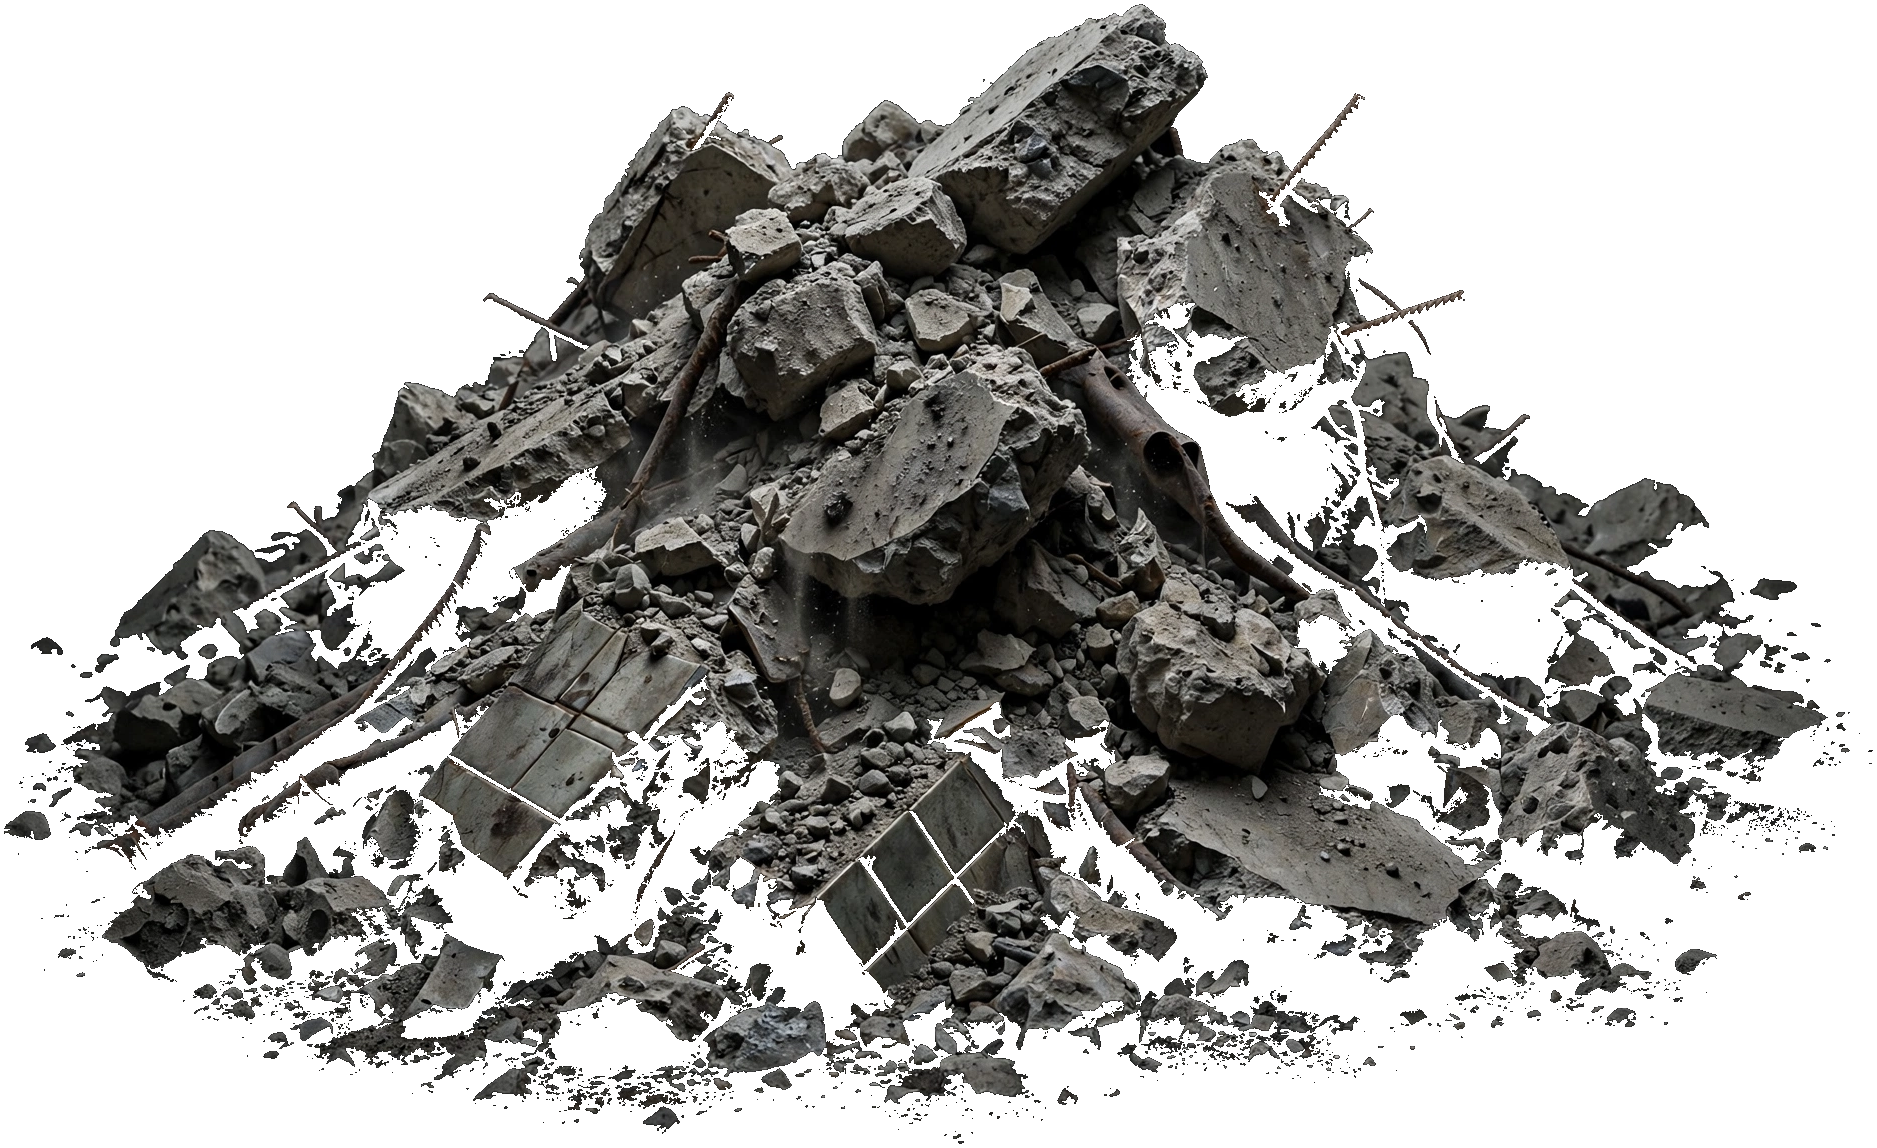
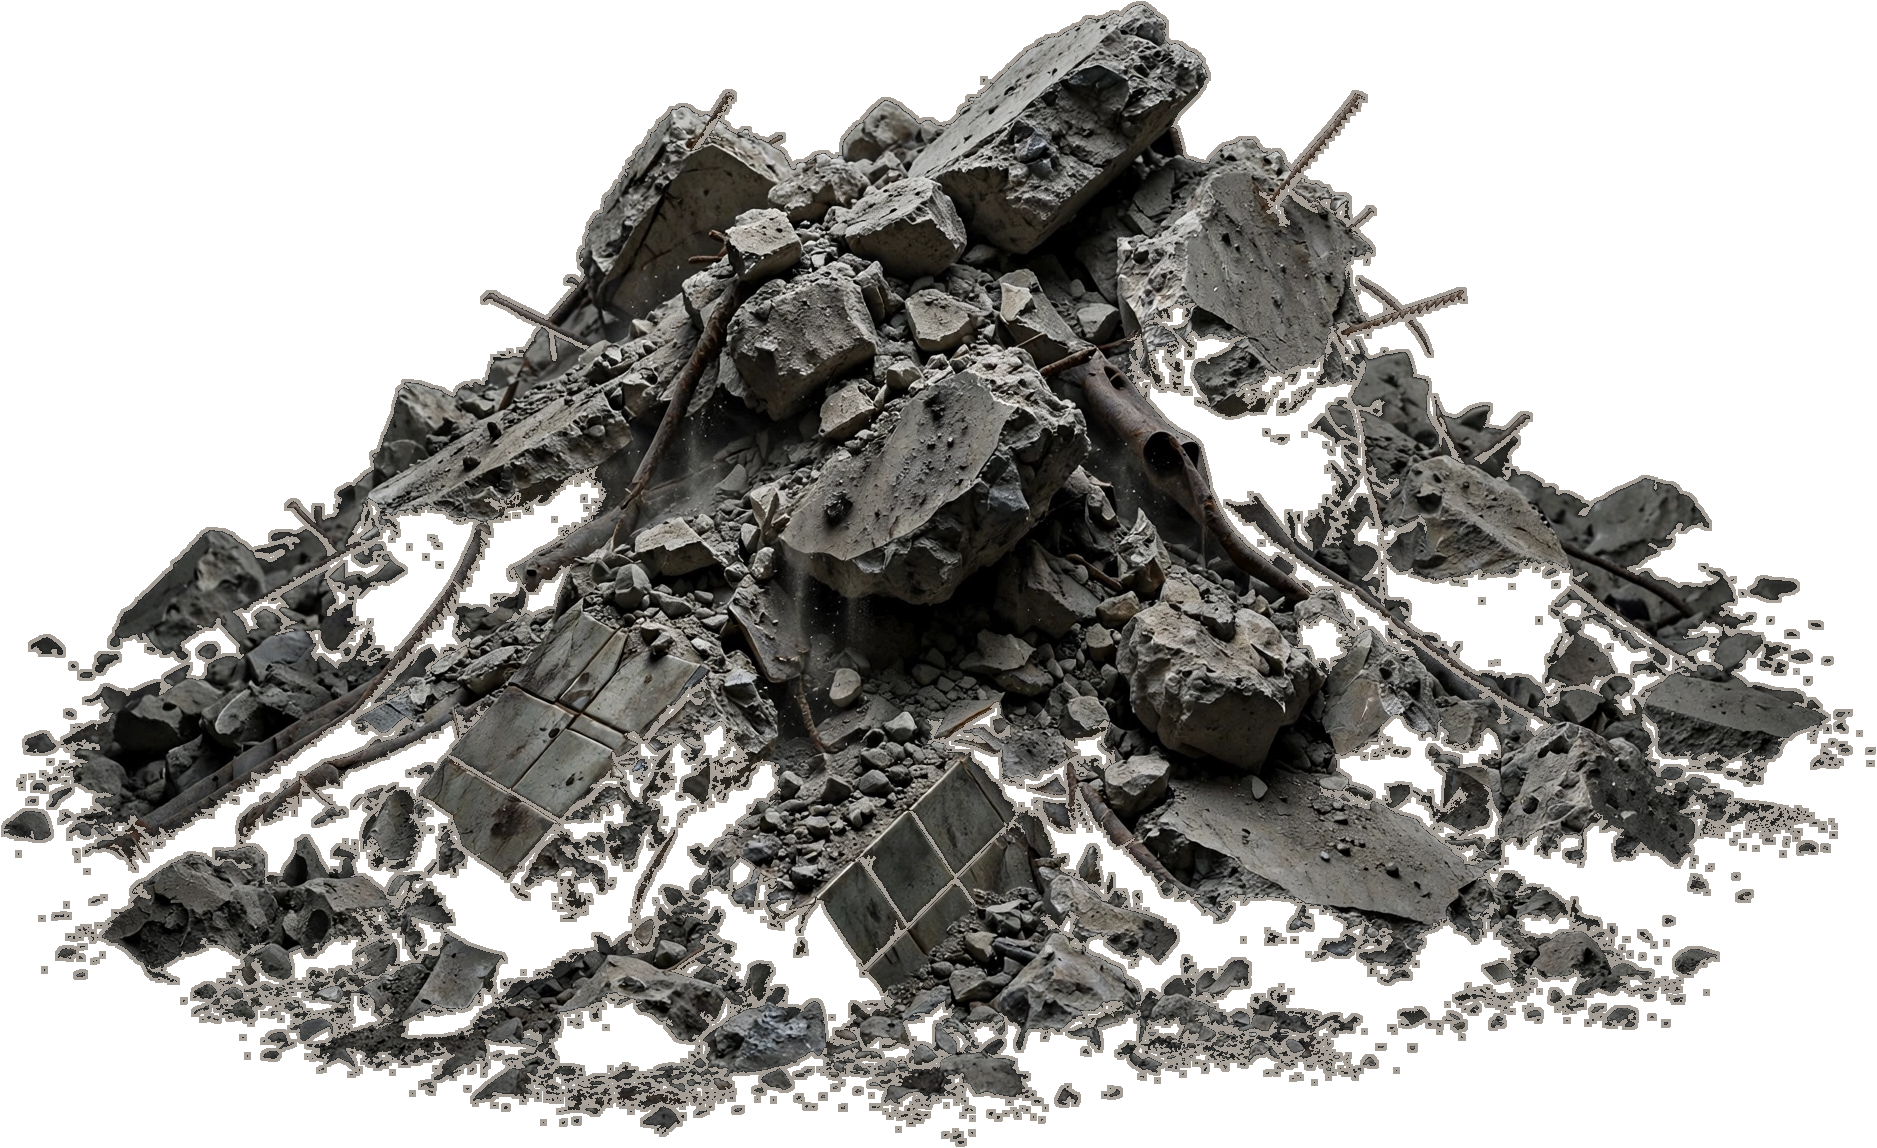
prototype v0.9.1: elite+boss walk animations, evo rebalance (Lv1 start, re-obtainable materials), prop/rock outlines, size tweaks

diff --git a/game.js b/game.js
@@ -31,7 +31,7 @@ function loadSprite(key, src) {
   img.onerror = () => { sprLoaded++; };
   img.src = src; SPR[key] = img;
 }
-const ASSET_V = 'v=0.9.0';
+const ASSET_V = 'v=0.9.1';
 loadSprite('tobi', 'assets/tobi-battle.png?' + ASSET_V);
 loadSprite('lumi', 'assets/lumi-battle.png?' + ASSET_V);
 // 캐릭터 걷기 애니메이션 프레임 (6프레임)
@@ -64,7 +64,7 @@ const ENEMY_ANIM = {
   paper: [[0, 0.975], [1, 1.035], [2, 0.965], [3, 0.985], [4, 1.04], [5, 1.01]],
   pack: [[0, 0.944], [1, 0.975], [2, 0.96], [3, 0.995], [4, 0.985], [5, 1.07]],
 };
-const ENEMY_ANIM_H = { ticket: 48, glove: 46, umb: 56, can: 46, paper: 52, pack: 58 };
+const ENEMY_ANIM_H = { ticket: 31, glove: 30, umb: 36, can: 30, paper: 34, pack: 38 };
 loadSprite('bg-floor', 'assets/bg-floor.png?' + ASSET_V);
 loadSprite('bg-rock', 'assets/bg-rock.png?' + ASSET_V);
 loadSprite('prop-trashcan', 'assets/prop-trashcan.png?' + ASSET_V);
@@ -169,16 +169,16 @@ const WEAPONS = {
   star:     { name: '별똥별',    icon: '🌠', max: 5, desc: '가장 가까운 적 추적' },
   clockbomb:{ name: '시계탑 폭발', icon: '💥', max: 5, desc: '주기적 광역 폭발+슬로우' },
   // ---- 진화 무기 (레벨업 진화로만 획득, max 1) ----
-  clawstorm:   { name: '폭풍 할퀴기', icon: '🌪', max: 1, evo: true, desc: '3연속 베기, 범위 대폭 증가' },
-  steelfoot:   { name: '강철 발톱',  icon: '🦾', max: 1, evo: true, desc: '3연속 베기 + 적중 시 짧은 기절' },
-  eternalclock:{ name: '영원의 시계', icon: '⏳', max: 1, evo: true, desc: '나갔다 돌아오는 왕복 파동' },
-  homerun:     { name: '홈런볼',     icon: '⚾', max: 1, evo: true, ball: true, desc: '초고속 관통 강속구' },
-  lightningfetch:{ name: '번개 페치', icon: '⚡', max: 1, evo: true, ball: true, desc: '초고속 왕복 + 궤적에 번개 피해' },
-  satbone:     { name: '위성 뼈다귀', icon: '🛰', max: 1, evo: true, desc: '3개의 뼈다귀, 넓은 궤도' },
-  meteorshower:{ name: '유성우',     icon: '☄', max: 1, evo: true, desc: '추적탄 9연발 동시 발사' },
-  guardbell:   { name: '수호의 종',  icon: '🔔', max: 1, evo: true, desc: '광역 폭발 + 방어 필드 생성' },
-  infinityrally:{ name: '무한 랠리', icon: '🔁', max: 1, evo: true, ball: true, desc: '튈수록 강해지고 반드시 돌아옴' },
-  doomsday:    { name: '종말의 시계', icon: '⏰', max: 1, evo: true, desc: '파동 적중 시 폭발, 연쇄 반응' },
+  clawstorm:   { name: '폭풍 할퀴기', icon: '🌪', max: 5, evo: true, desc: '3연속 베기, 범위 대폭 증가' },
+  steelfoot:   { name: '강철 발톱',  icon: '🦾', max: 5, evo: true, desc: '3연속 베기 + 적중 시 짧은 기절' },
+  eternalclock:{ name: '영원의 시계', icon: '⏳', max: 5, evo: true, desc: '나갔다 돌아오는 왕복 파동' },
+  homerun:     { name: '홈런볼',     icon: '⚾', max: 5, evo: true, ball: true, desc: '초고속 관통 강속구' },
+  lightningfetch:{ name: '번개 페치', icon: '⚡', max: 5, evo: true, ball: true, desc: '초고속 왕복 + 궤적에 번개 피해' },
+  satbone:     { name: '위성 뼈다귀', icon: '🛰', max: 5, evo: true, desc: '3개의 뼈다귀, 넓은 궤도' },
+  meteorshower:{ name: '유성우',     icon: '☄', max: 5, evo: true, desc: '추적탄 9연발 동시 발사' },
+  guardbell:   { name: '수호의 종',  icon: '🔔', max: 5, evo: true, desc: '광역 폭발 + 방어 필드 생성' },
+  infinityrally:{ name: '무한 랠리', icon: '🔁', max: 5, evo: true, ball: true, desc: '튈수록 강해지고 반드시 돌아옴' },
+  doomsday:    { name: '종말의 시계', icon: '⏰', max: 5, evo: true, desc: '파동 적중 시 폭발, 연쇄 반응' },
 };
 const EVOS = {
   clawstorm:    { needs: { weapon: 'claw', passive: 'meat' } },
@@ -233,6 +233,7 @@ function newGame(charId) {
       x: 0, y: 0, hp: c.hp, maxHp: c.hp, speed: c.speed,
       lvl: 1, xp: 0, xpNeed: xpFor(1), r: 22,
       weapons: [{ id: c.weapon, lvl: 1, t: 0, ang: 0 }],
+      consumed: [], // 진화에 소모된 무기 (다시 획득 가능)
       passives: {}, keepsakes: {}, scarfCd: 0, face: 1, invuln: 0, atkAng: 0,
       rewindUsed: false, snaps: [], snapT: 0, moving: false,
     },
@@ -704,10 +705,17 @@ function setBanner(txt) { G.banner = { txt, t: 0 }; }
 
 // ============ Elite & Boss ============
 const ELITE_DEFS = {
-  ticket: { hp: 900, name: '티켓 검사관', spr: 'enemy-elite-inspector', dims: [110, 110], r: 28 },
-  glove: { hp: 2200, name: '잃어버린 수하물', spr: 'enemy-elite-luggage', dims: [120, 120], r: 32 },
-  umb: { hp: 3800, name: '고장난 안내방송', spr: 'enemy-elite-announce', dims: [116, 110], r: 30 },
+  ticket: { hp: 900, name: '티켓 검사관', spr: 'enemy-elite-inspector', dims: [110, 110], r: 28,
+    walk: [['elite-ticket-0', 1.031], ['elite-ticket-1', 0.995], ['elite-ticket-2', 1.031], ['elite-ticket-3', 0.995], ['elite-ticket-4', 1.026], ['elite-ticket-5', 1.046]] },
+  glove: { hp: 2200, name: '잃어버린 수하물', spr: 'enemy-elite-luggage', dims: [120, 120], r: 32,
+    walk: [['elite-glove-0', 0.975], ['elite-glove-1', 0.96], ['elite-glove-2', 1.005], ['elite-glove-3', 0.995], ['elite-glove-4', 0.995], ['elite-glove-5', 1.042]] },
+  umb: { hp: 3800, name: '고장난 안내방송', spr: 'enemy-elite-announce', dims: [116, 110], r: 30,
+    walk: [['elite-umb-0', 0.936], ['elite-umb-1', 0.936], ['elite-umb-2', 0.926], ['elite-umb-3', 0.975], ['elite-umb-4', 0.985], ['elite-umb-5', 0.995]] },
 };
+for (const t of ['ticket', 'glove', 'umb'])
+  for (let i = 0; i < 6; i++) loadSprite(`elite-${t}-${i}`, `assets/elite-${t}-${i}.png?` + ASSET_V);
+for (let i = 0; i < 6; i++) loadSprite('boss-walk-' + i, `assets/boss-walk-${i}.png?` + ASSET_V);
+const BOSS_WALK = [['boss-walk-0', 1.091], ['boss-walk-1', 1.053], ['boss-walk-2', 1.031], ['boss-walk-3', 1.089], ['boss-walk-4', 1.036], ['boss-walk-5', 0.995]];
 function spawnMinion(type, x, y) {
   if (G.enemies.length > 90) return;
   const base = ENEMY_TYPES[type], t = G.time;
@@ -987,8 +995,15 @@ function drawEnemy(e) {
   if (e.frozen > 0) ctx.globalAlpha = 0.7;
   if (e.elite) {
     const def = ELITE_DEFS[e.type], ed = def.dims;
-    const espr = sprFor(def.spr, ed[0], ed[1]);
-    if (espr) ctx.drawImage(espr, -ed[0] / 2, -ed[1] / 2, ed[0], ed[1]);
+    // 엘리트 걷기 애니메이션 (6프레임, 6fps)
+    const [wkey, wasp] = def.walk[Math.floor(G.time * 6 + e.seed) % 6];
+    const ww = Math.round(ed[1] * wasp);
+    const espr = sprFor(wkey, ww, ed[1]);
+    if (espr) ctx.drawImage(espr, -ww / 2, -ed[1] / 2, ww, ed[1]);
+    else {
+      const fspr = sprFor(def.spr, ed[0], ed[1]);
+      if (fspr) ctx.drawImage(fspr, -ed[0] / 2, -ed[1] / 2, ed[0], ed[1]);
+    }
   } else {
     // 걷기 애니메이션 (6프레임, 8fps)
     const anim = ENEMY_ANIM[e.type], h = ENEMY_ANIM_H[e.type] || 52;
@@ -1048,10 +1063,16 @@ function drawBoss(e) {
   ctx.rotate(ang);
   const pulse = e.phase === 2 ? Math.sin(G.time * 10) * 0.015 : Math.sin(G.time * 4) * 0.008;
   ctx.scale(1 + pulse, 1 + pulse);
-  const BW = 224, BH = 216; // 시트 기본형 스프라이트
+  const BW = 224, BH = 216; // 보스 걷기 애니메이션 (6프레임, 6fps)
   if (flash) ctx.globalAlpha = 0.72;
-  const bspr = sprFor('enemy-boss-train', BW, BH);
-  if (bspr) ctx.drawImage(bspr, -BW / 2, -BH / 2 + 10, BW, BH);
+  const [bkey, basp] = BOSS_WALK[Math.floor(G.time * 6) % 6];
+  const bw2 = Math.round(BH * basp);
+  const bspr = sprFor(bkey, bw2, BH);
+  if (bspr) ctx.drawImage(bspr, -bw2 / 2, -BH / 2 + 10, bw2, BH);
+  else {
+    const ospr = sprFor('enemy-boss-train', BW, BH);
+    if (ospr) ctx.drawImage(ospr, -BW / 2, -BH / 2 + 10, BW, BH);
+  }
   // Phase 2 붉은 기운
   if (e.phase === 2) {
     ctx.globalAlpha = 0.12 + 0.07 * Math.sin(G.time * 10);
@@ -1233,7 +1254,7 @@ function drawPlayer() {
   const anim = CHAR_ANIM[G.char];
   let sprKey = G.char, sw = 76, sh = 76;
   if (anim) {
-    sh = 88;
+    sh = 72;
     const f = p.moving ? Math.floor(G.time * 10) % 6 : 2;
     let asp;
     [sprKey, asp] = anim.walk[f];
@@ -1531,6 +1552,10 @@ function openLevelUp() {
     const l = p.passives[id] || 0;
     if (l < PASSIVES[id].max && (l > 0 || pCount < MAX_PASSIVES)) pool.push({ t: 'passive', id });
   }
+  // 진화에 소모된 무기는 슬롯이 가득 차도 다시 획득 가능
+  for (const id of (p.consumed || [])) {
+    if (!p.weapons.find(w => w.id === id)) pool.push({ t: 'new', id });
+  }
   for (let i = pool.length - 1; i > 0; i--) { const j = randInt(0, i);[pool[i], pool[j]] = [pool[j], pool[i]]; }
   // 진화 후보는 확정 등장 (여러 개면 직접 고름)
   const picks = evoCandidates().map(id => ({ t: 'evo', id })).concat(pool).slice(0, 3);
@@ -1554,17 +1579,21 @@ function openLevelUp() {
 }
 function applyChoice(c) {
   const p = G.player;
-  if (c.t === 'new') p.weapons.push({ id: c.id, lvl: 1, t: 0.3, ang: rand(0, TAU) });
+  if (c.t === 'new') {
+    p.weapons.push({ id: c.id, lvl: 1, t: 0.3, ang: rand(0, TAU) });
+    if (p.consumed) p.consumed = p.consumed.filter(id => id !== c.id);
+  }
   else if (c.t === 'up') p.weapons.find(w => w.id === c.id).lvl++;
   else if (c.t === 'passive') {
     p.passives[c.id] = (p.passives[c.id] || 0) + 1;
     if (c.id === 'paw') { p.maxHp += 10; p.hp = Math.min(p.maxHp, p.hp + 10); }
   }
   else if (c.t === 'heal') p.hp = Math.min(p.maxHp, p.hp + 30);
-  else if (c.t === 'evo') { // 진화: 재료 무기 제거 → 진화 무기 장착
+  else if (c.t === 'evo') { // 진화: 재료 무기 제거 → 진화 무기 Lv1 장착 (다시 강화)
     const consumed = EVOS[c.id].needs.weapons || [EVOS[c.id].needs.weapon];
     p.weapons = p.weapons.filter(w => !consumed.includes(w.id));
-    p.weapons.push({ id: c.id, lvl: 5, t: 0.3, ang: rand(0, TAU) });
+    for (const id of consumed) if (!p.consumed.includes(id)) p.consumed.push(id);
+    p.weapons.push({ id: c.id, lvl: 1, t: 0.3, ang: rand(0, TAU) });
     setBanner(`✨ ${WEAPONS[c.id].name} 진화!`);
   }
   lvScreen.classList.add('hidden');

diff --git a/index.html b/index.html
@@ -66,6 +66,6 @@
   <button id="btn-clear-retry">다시 도전</button>
 </div>
 
-<script src="game.js?v=0.9.0"></script>
+<script src="game.js?v=0.9.1"></script>
 </body>
 </html>
